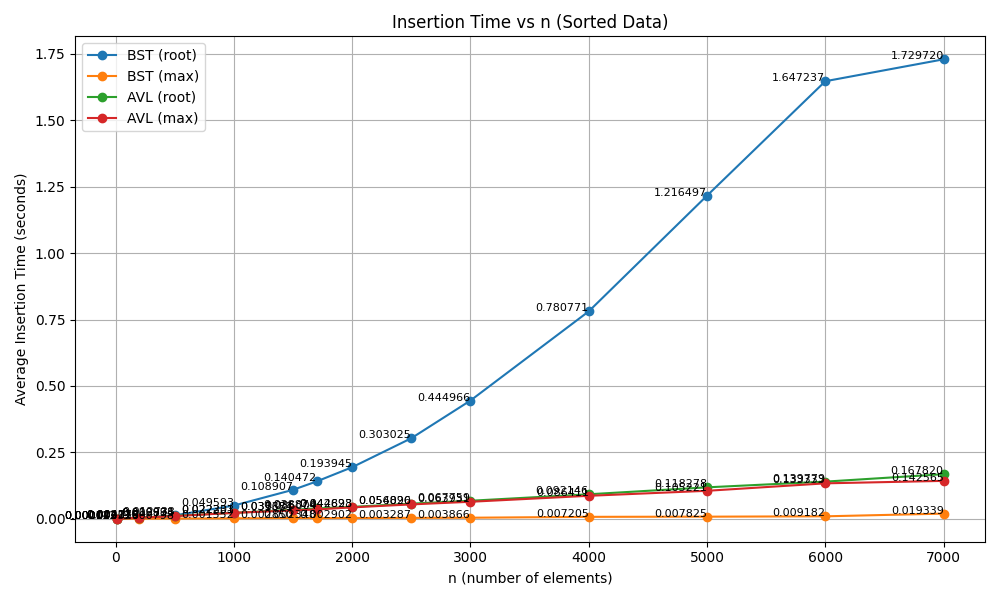
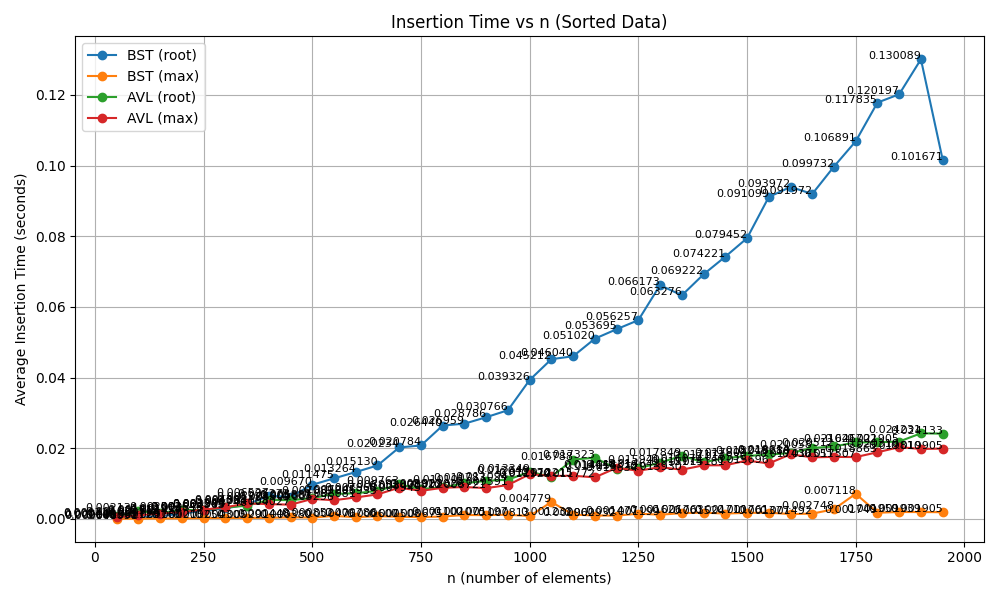
i think i made update upwards work perfectly now?

diff --git a/avl_tree.py b/avl_tree.py
@@ -14,7 +14,7 @@ def rotate_left(tree, node):
         new_parent.parent.right = new_parent
     node.update_stats()
     new_parent.update_stats()
-    return new_parent
+    return
 
 
 def rotate_right(tree, node):
@@ -33,7 +33,7 @@ def rotate_right(tree, node):
         new_parent.parent.left = new_parent
     node.update_stats()
     new_parent.update_stats()
-    return new_parent
+    return 
 
 
 def update_and_rebalance_upwards(tree, node, called_from_insert):
@@ -54,22 +54,22 @@ def update_and_rebalance_upwards(tree, node, called_from_insert):
         # Perform rotations if needed
         if bf > 1:
             if node.left.balance_factor() < 0:
-                node.left = rotate_left(tree, node.left)
+                rotate_left(tree, node.left)
                 rotations += 1
-            node = rotate_right(tree, node)
+            rotate_right(tree, node)
             rotations += 1
             if called_from_insert:
                 break
         elif bf < -1:
             if node.right.balance_factor() > 0:
-                node.right = rotate_right(tree, node.right)
+                rotate_right(tree, node.right)
                 rotations += 1
             node = rotate_left(tree, node)
             rotations += 1
             if called_from_insert:
                 break
 
-        if node.height == old_height:
+        if node.height == old_height and called_from_insert:
             break
 
         # Update root if necessary

diff --git a/second_experiment/compare_specific_sorted_input.py b/second_experiment/compare_specific_sorted_input.py
@@ -2,6 +2,7 @@ import time
 import sys
 import os
 import matplotlib.pyplot as plt
+import gc
 
 sys.path.append(os.path.abspath(os.path.join(os.path.dirname(__file__), '..')))
 
@@ -27,7 +28,7 @@ def experiment_task(args):
     bst_max_time = sum(time_insertion(BSTree, "max", sorted_data) for _ in range(repeats)) / repeats
     return n, avl_sorted_time, avl_max_time, bst_max_time
 
-def run_experiment(sizes, repeats=5):
+def run_experiment(sizes, repeats=1):
     results = {"AVL (root)": [], "AVL (max)": [], "BST (max)": []}
 
     for n in sizes:
@@ -61,7 +62,7 @@ def plot_results(results, folder):
     print(f"Saved graph: {out_path}")
 
 if __name__ == "__main__":
-    sizes_to_test = [1000  * i for i in range(1, 23)] 
+    sizes_to_test = [1000  * i for i in range(1, 40)] 
     start_time = time.time()
     results = run_experiment(sizes_to_test)
     plot_results(results, os.path.dirname(__file__))

diff --git a/second_experiment/insertion_exp.py b/second_experiment/insertion_exp.py
@@ -39,7 +39,7 @@ def run_scenario(args):
     return (tree_type, start_mode, "sorted" if data == list(range(n)) else "reversed", n, avg_time)
 
 
-def run_all_experiments(sizes, repeats=5):
+def run_all_experiments(sizes, repeats=1):
     scenarios = [("BST", "root"), ("BST", "max"), ("AVL", "root"), ("AVL", "max")]
     tasks = []
     for n in sizes:
@@ -99,7 +99,7 @@ def plot_results(results, folder):
 
 if __name__ == "__main__":
     import time
-    sizes_to_test = [10,  200, 500, 1000, 1500, 1700, 2000, 2500, 3000, 4000, 5000, 6000, 7000]
+    sizes_to_test = [50* i for i in range(1, 40)]
     start_time = time.time()
     results = run_all_experiments(sizes_to_test)
     # results = run_sorted_experiments(sizes_to_test)
